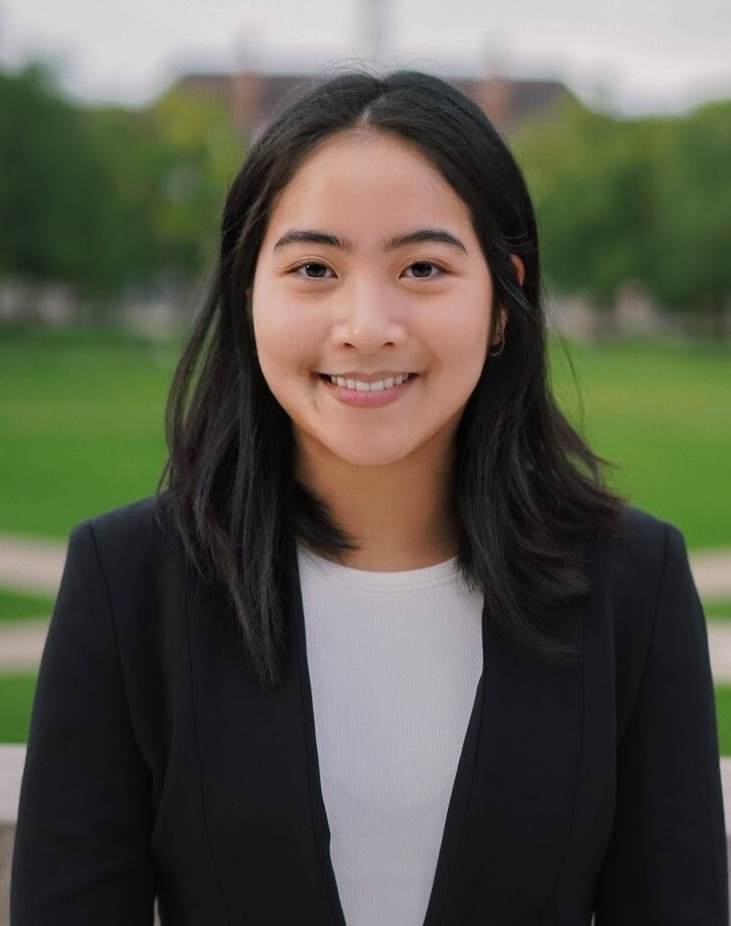
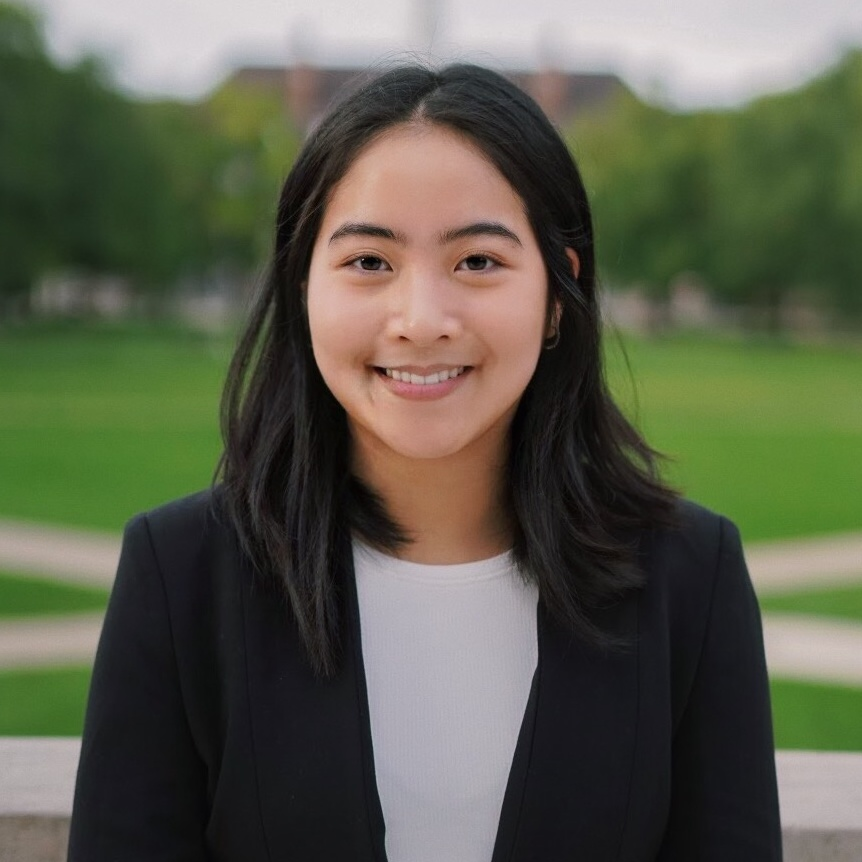
people.html, images

diff --git a/people.html b/people.html
@@ -135,7 +135,7 @@ permalink: /people/
         </div>
 
         <div class="single_profile">
-            <img id="single_img" src="../images/user1.png" alt="Avatar">
+            <img id="single_img" src="../images/manting_huang.jpg" alt="Avatar">
             <div id="single_info">
                 <h3>Manting Huang</h3>
                 <p>2018</p>
